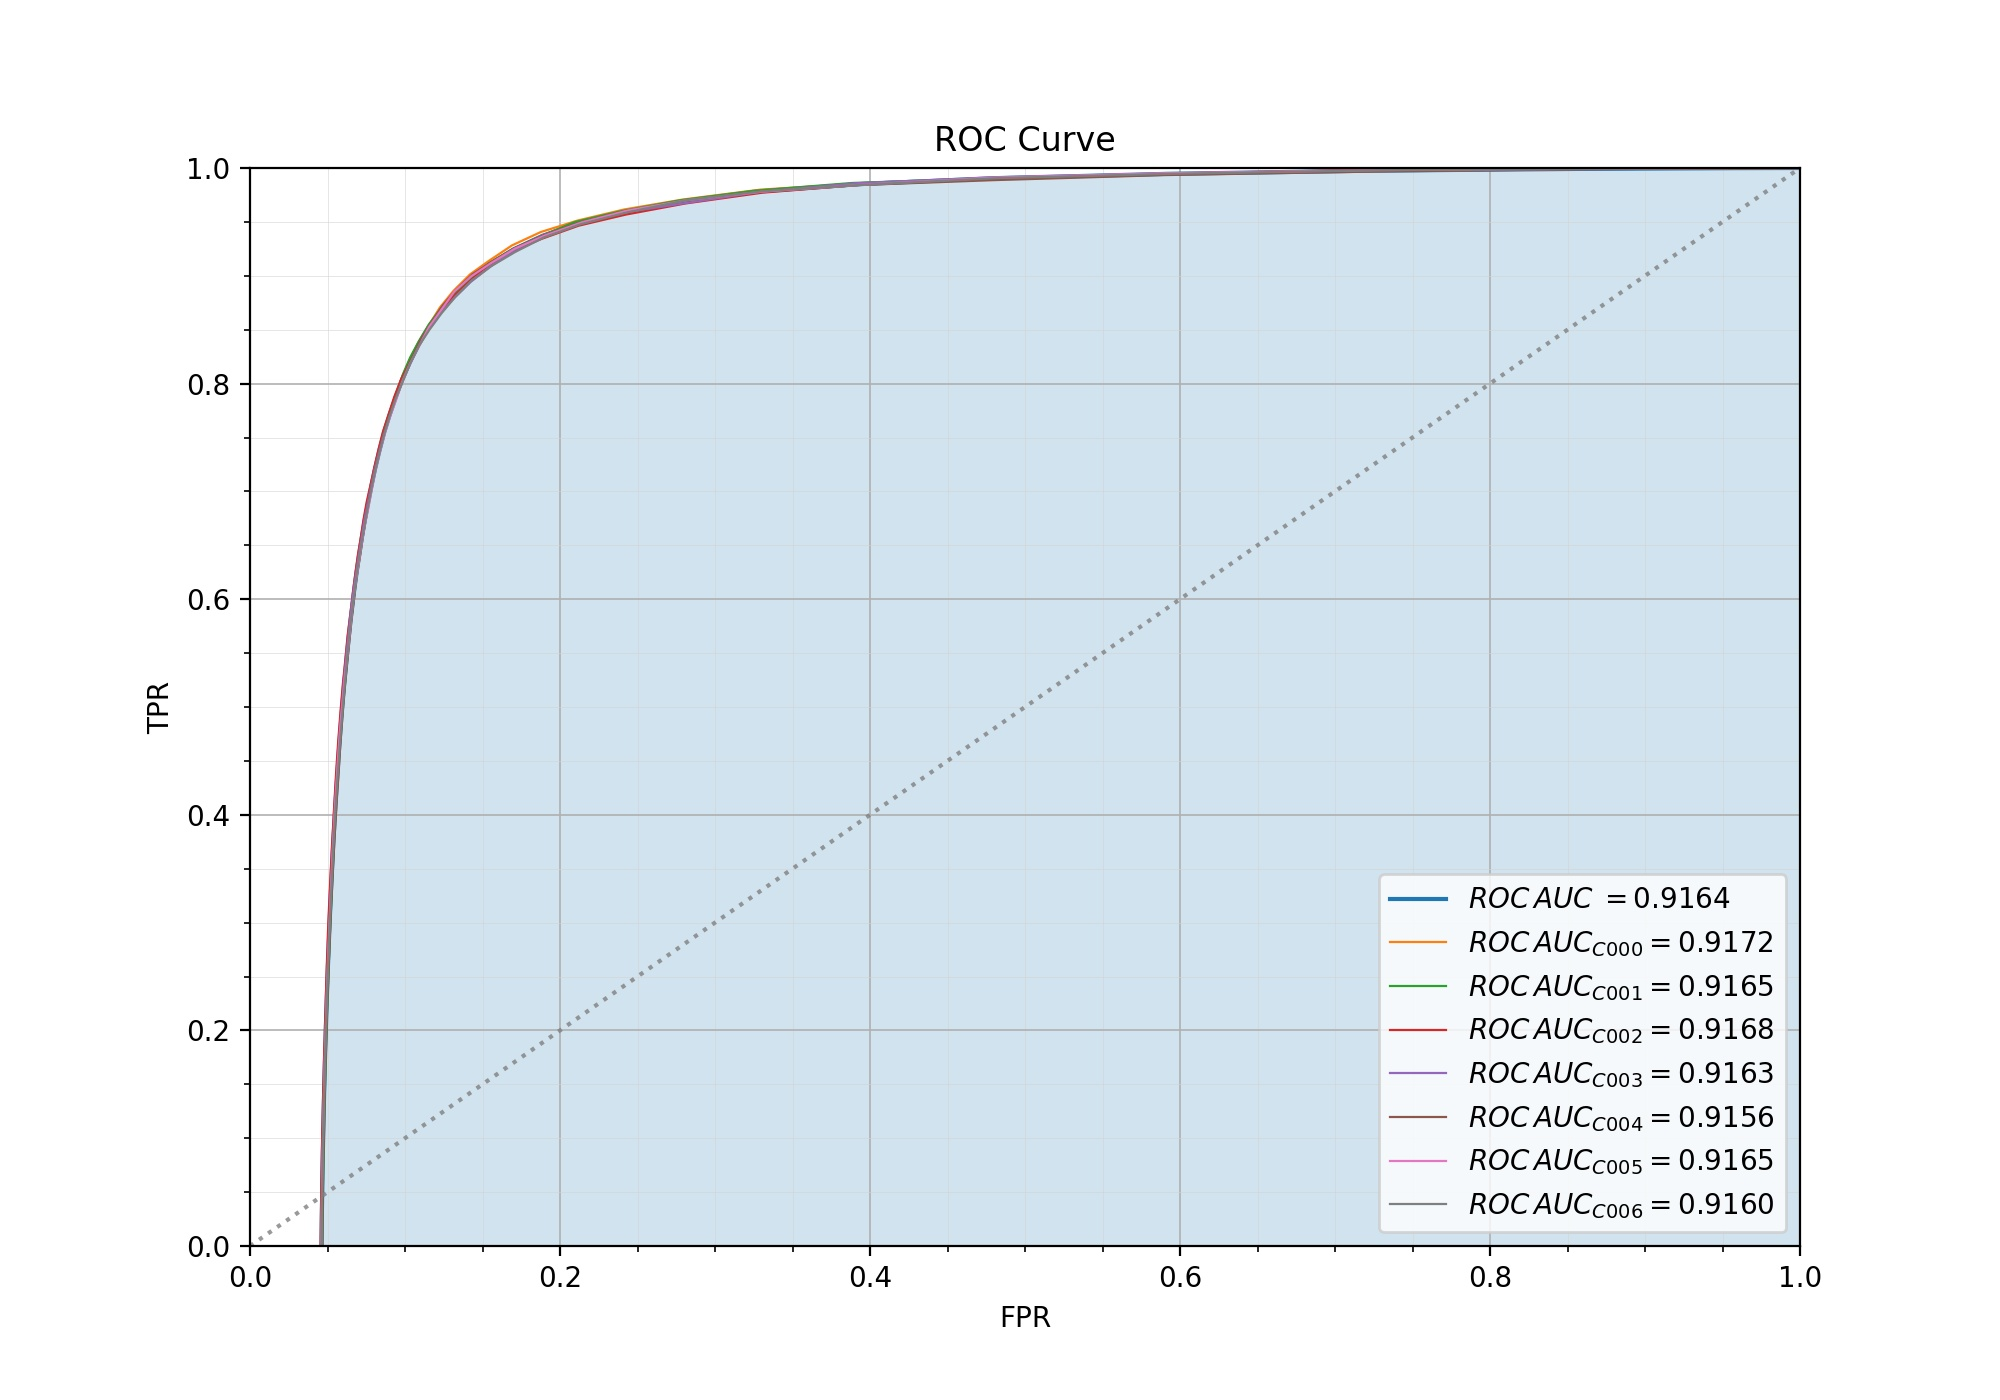
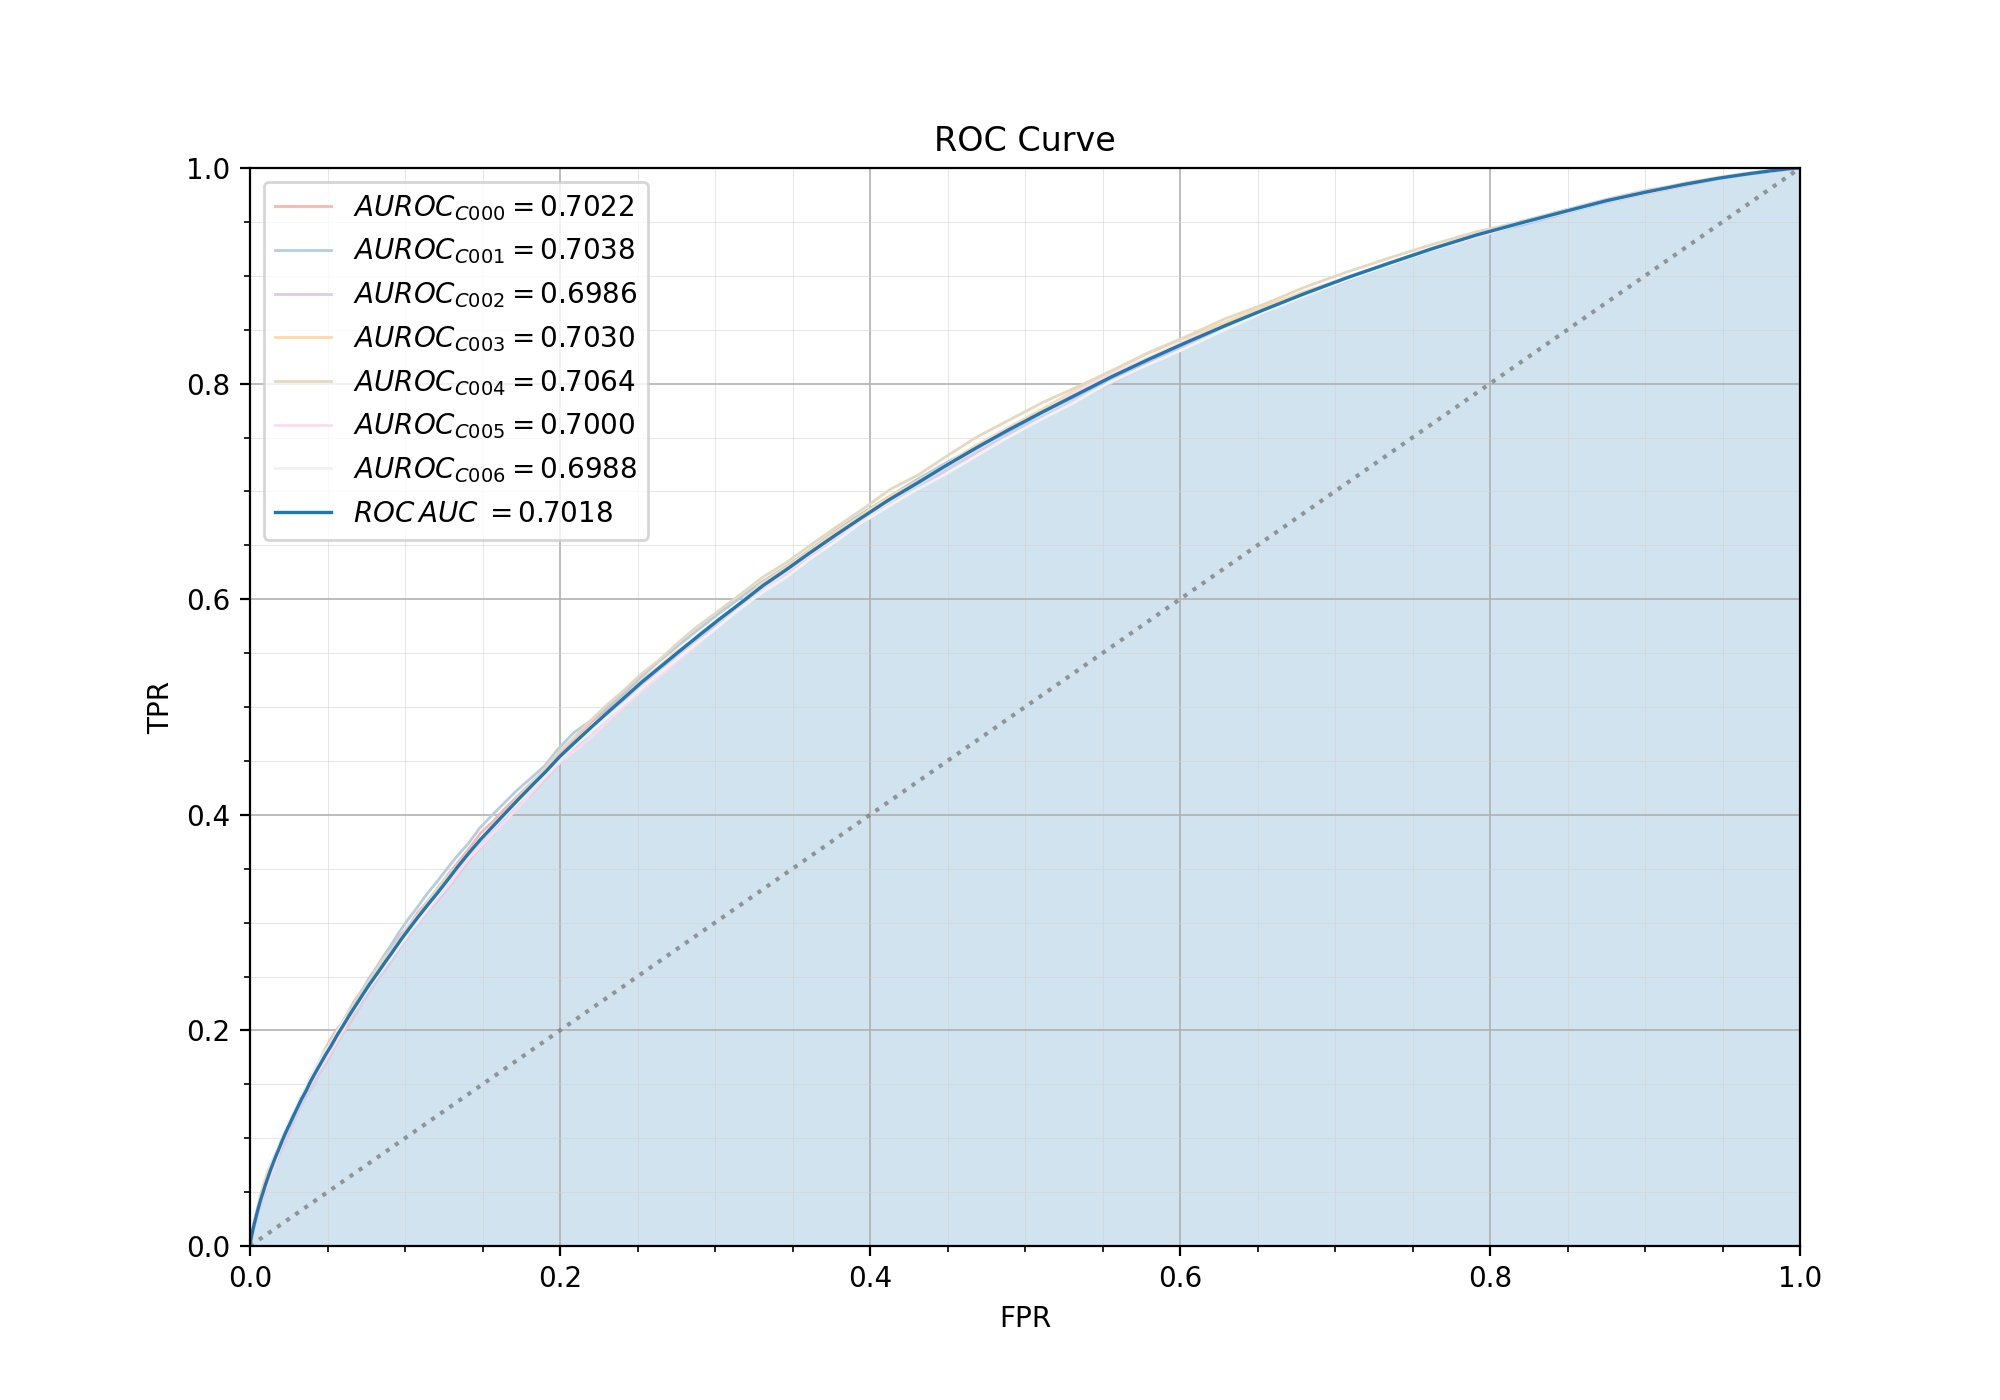
0.0.65 - metrics.plot_ROC -> improvements

Changed region(s): [[0.124, 0.1229, 0.868, 0.8907], [0.682, 0.6143, 0.899, 0.8907]]

diff --git a/rsp/ml/metrics/metrics.py b/rsp/ml/metrics/metrics.py
@@ -960,13 +960,10 @@ def plot_ROC(
     if title is not None:
         plt.title(title)
 
-    FPRs, TPRs = ROC(Y, T, num_thresholds)
-    roc_auc = AUROC(Y, T, num_thresholds)
-    label_str = '$ROC\,AUC_ = ' + f'{roc_auc:0.4f}' + '$'
-    plt.plot(FPRs, TPRs, label = label_str)
-    plt.fill_between(FPRs, TPRs, 0, alpha = 0.2)
-
     if class_curves:
+        cmap = plt.get_cmap('Pastel1')
+        colors = cmap(np.linspace(0, 1, T.shape[1]))
+        
         class_data = {}
         for i in range(T.shape[1]):
             class_data[i] = [], []
@@ -976,19 +973,25 @@ def plot_ROC(
             class_data[c][0].append(y)
             class_data[c][1].append(t)
         for c in class_data:
-            Y, T = class_data[c]
-            if len(Y) == 0:
+            Y_c, T_c = class_data[c]
+            if len(Y_c) == 0:
                 continue
-            Y = torch.stack(Y, dim = 0)
-            T = torch.stack(T, dim = 0)
-            FPRs, TPRs = ROC(Y, T, num_thresholds)
-            roc_auc_c = AUROC(Y, T, num_thresholds)
+            Y_c = torch.stack(Y_c, dim = 0)
+            T_c = torch.stack(T_c, dim = 0)
+            FPRs, TPRs = ROC(Y_c, T_c, num_thresholds)
+            roc_auc_c = AUROC(Y_c, T_c, num_thresholds)
             if labels is None:
                 class_str = f'C{c:0>3}'
             else:
                 class_str = labels[c]
             label_str = '$AUROC_{' + class_str + '} = ' + f'{roc_auc_c:0.4f}' + '$'
-            plt.plot(FPRs, TPRs, label=label_str, linewidth = 0.8)
+            plt.plot(FPRs, TPRs, label=label_str, linewidth = 1, color = colors[c])
+
+    FPRs, TPRs = ROC(Y, T, num_thresholds)
+    roc_auc = AUROC(Y, T, num_thresholds)
+    label_str = '$ROC\,AUC_ = ' + f'{roc_auc:0.4f}' + '$'
+    plt.plot(FPRs, TPRs, label = label_str, linewidth=1.2)
+    plt.fill_between(FPRs, TPRs, 0, alpha = 0.2)
 
     plt.plot([0, 1], [0, 1], linestyle = ':', color='gray', alpha = 0.8)
 

diff --git a/setup.py b/setup.py
@@ -1,6 +1,6 @@
 from setuptools import setup, find_packages, find_namespace_packages
 
-VERSION = '0.0.64' 
+VERSION = '0.0.65' 
 DESCRIPTION = 'Machine Learning'
 with open('README.md') as f:
     LONG_DESCRIPTION = f.read()
